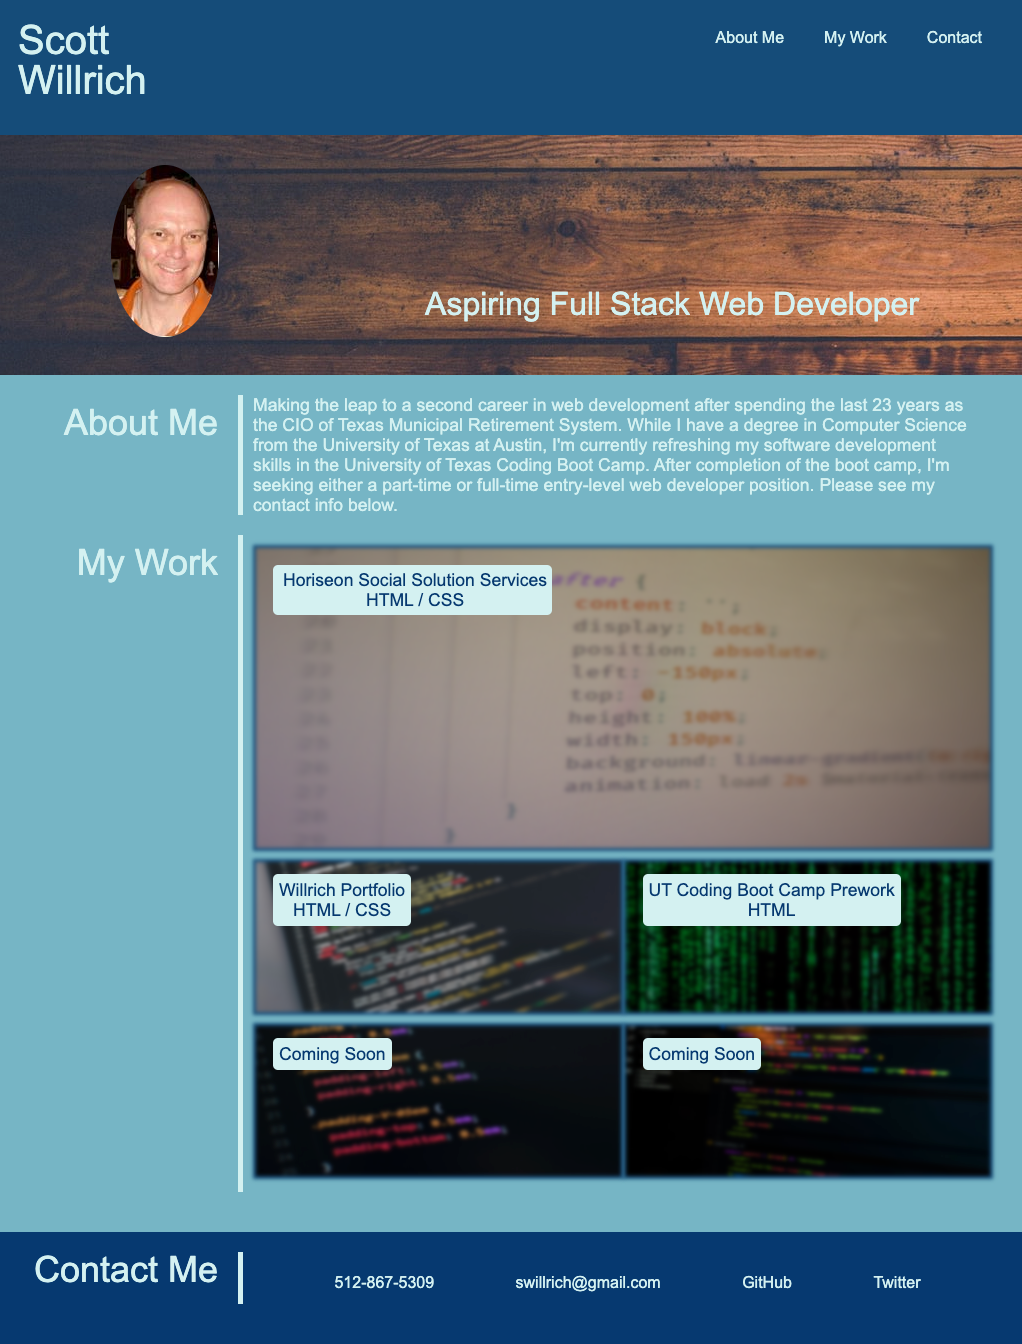
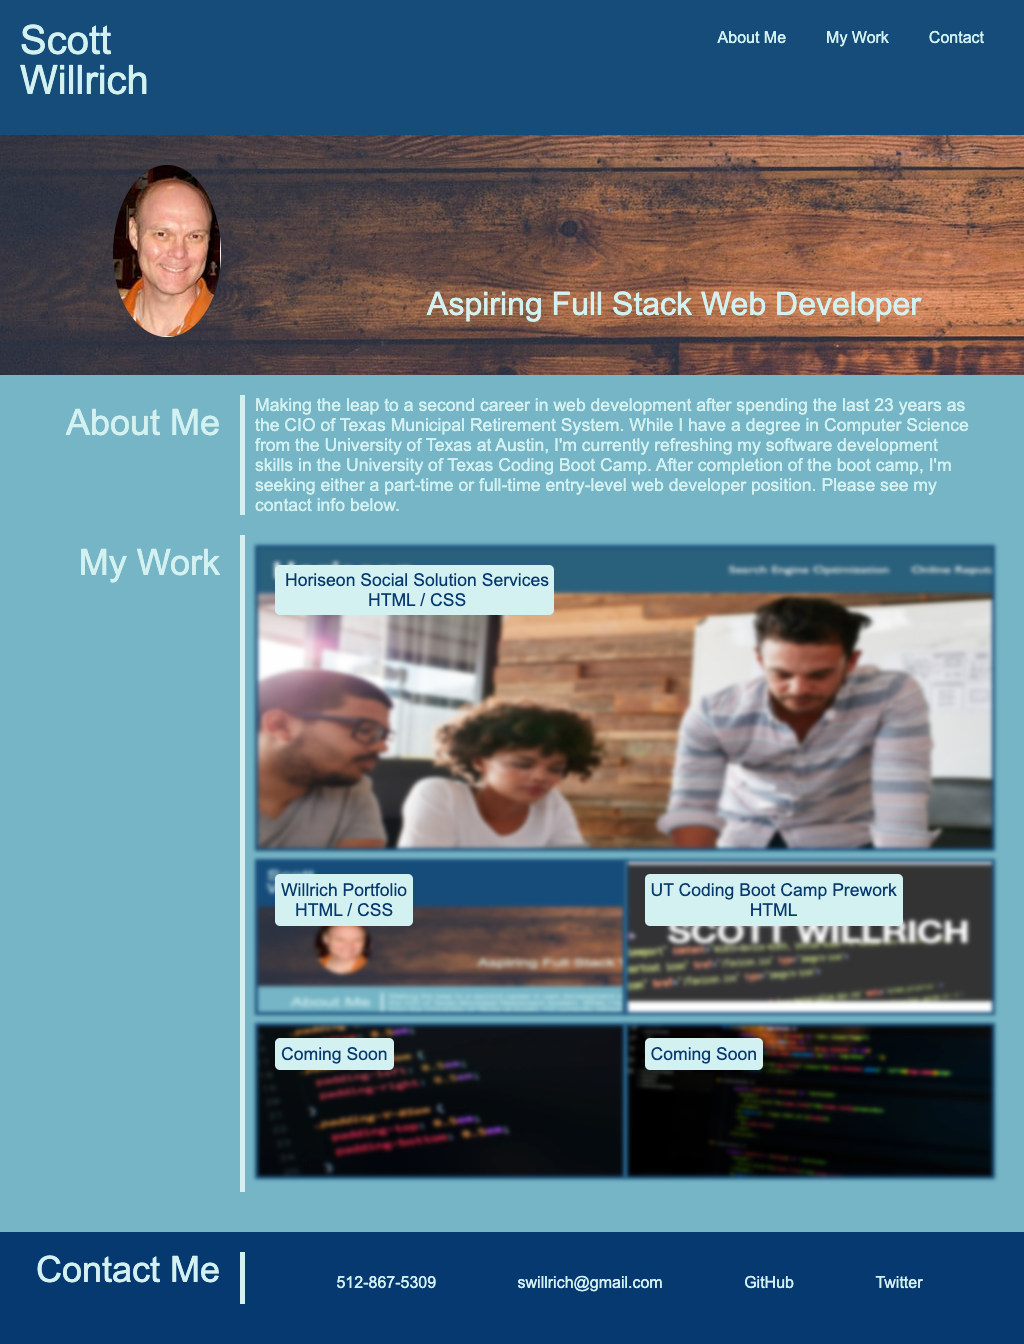
tweaking/updating images

diff --git a/index.html b/index.html
@@ -41,17 +41,17 @@
                     <h2 id="my-work">My Work</h2>   
                     <div class="my-apps-container">
                         <figure class="first-app flex-container">
-                            <a href="https://swillrich5.github.io/Horiseon-refactor/"><img src="assets/images/css_code.jpg" alt="link to Horiseon Refactor application"></a>
+                            <a href="https://swillrich5.github.io/Horiseon-refactor/"><img src="assets/images/Horiseon-refactor.jpg" alt="link to Horiseon Refactor application"></a>
                             <div class="app-name">
                                 <a href="https://swillrich5.github.io/Horiseon-refactor/"><p>Horiseon Social Solution Services<br>HTML / CSS</p></a>
                             </div>
                         </figure>
                         <div class="flex-container otherapps-row">
                             <figure class="other-app-container">
-                                <a href="https://swillrich5.github.io/willrich-portfolio/"><img src="./assets/images/html_code.jpg" alt="link to this portfolio site"><p id="portfolio">Willrich Portfolio<br>HTML / CSS</p></a>
+                                <a href="https://swillrich5.github.io/willrich-portfolio/"><img src="./assets/images/willrich_portfolio.jpg" alt="link to this portfolio site"><p id="portfolio">Willrich Portfolio<br>HTML / CSS</p></a>
                             </figure>
                             <figure class="other-app-container">
-                                <a href="https://swillrich5.github.io/prework-about-me/"><img src="./assets/images/matrix.jpg" alt="link to UT Coding Boot Camp Pre-Work"><p id="pre-work">UT Coding Boot Camp Prework<br>HTML</p></a>
+                                <a href="https://swillrich5.github.io/prework-about-me/"><img src="./assets/images/pre-work.jpg" alt="link to UT Coding Boot Camp Pre-Work"><p id="pre-work">UT Coding Boot Camp Prework<br>HTML</p></a>
                             </figure>
                         </div>
                         <!-- Since I'm just beginning, more apps will be added later -->
